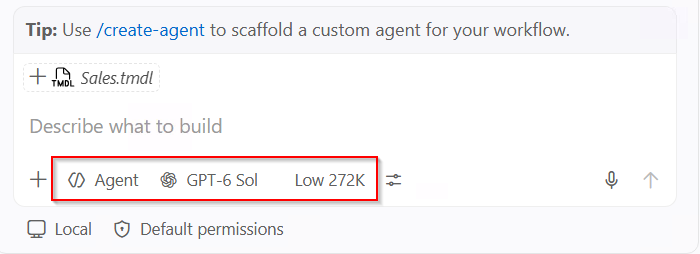
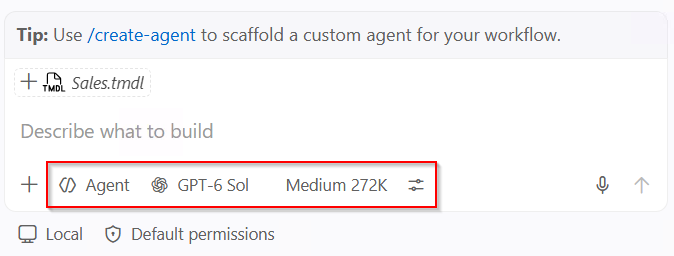
Update lab.md to adjust reasoning model settings and clarify thinking effort recommendations

diff --git a/lab2/lab.md b/lab2/lab.md
@@ -211,15 +211,15 @@ Writing documentation from scratch and keeping it current both take time. AI can
 #### Steps
 
 1. In **Visual Studio Code**, open **GitHub Copilot Chat** (`CTRL+ALT+I`).
-2. Set the chat mode to **Agent** and in the model picker, select the reasoning model `GPT-6 Sol` and thinking effort `Low`.	
+2. Set the chat mode to **Agent** and in the model picker, select the reasoning model `GPT-6 Sol` and thinking effort `Medium`.	
 
 	![vscode-copilot-chat](resources/img/vscode-copilot-chat-2.png)	
 
 > [!IMPORTANT]
 > **Choose the model and thinking effort based on the complexity of the task.**
 > Example using GPT-6 models:
-> * **Luna:** Fast and cost-efficient for simple, high-volume tasks, but less suitable for complex Power BI development and reasoning.
 > * **Sol:** Best suited for more complex tasks that require deeper reasoning, planning, or validation.
+> * **Luna:** Fast and cost-efficient for simple, high-volume tasks, but less suitable for complex Power BI development and reasoning.
 >
 > You can also adjust the **thinking effort** independently. Higher thinking effort can improve results on complex tasks, but can also increase cost.
 >
@@ -275,6 +275,9 @@ Writing documentation from scratch and keeping it current both take time. AI can
 
 1. Start a **new chat session** in GitHub Copilot Chat and choose `GPT-6 Luna` model and thinking effort `Medium`.
 
+> [!IMPORTANT]
+> Using a cheaper model like `GPT-6 Luna` to generate descriptions for existing Power BI measures is a good fit because the task is well-scoped and repeatable. 
+
 > [!TIP]
 > Start a new session when moving to a different task. A clean session prevents decisions, assumptions, and tool results from the previous task from influencing the next one. You can also reuse an existing sessions to keep the session context. For example, you could reuse the documentation session to update the docs after making changes to the semantic models or reports.
 
@@ -328,9 +331,6 @@ Writing documentation from scratch and keeping it current both take time. AI can
 
 1. Start a **new chat session** and pick `GPT-6 Sol` model and thinking effort `Medium`.
 
-> [!IMPORTANT]
-> Use the `GPT-6 Sol` model for this task because it requires more than a straightforward model edit like setting descriptions. The agent must inspect a new data source, infer its schema, design a calculation group, and write the required DAX expressions. These steps benefit from a model with stronger reasoning than `GPT-6 Luna`.
-
 2. Enter the following prompt:
 
 	```text
@@ -370,7 +370,7 @@ Writing documentation from scratch and keeping it current both take time. AI can
 
 2. Select **Save** in **Power BI Desktop** to ensure there are no pending changes. The agent will modify the PBIR files and reload the report automatically, but Power BI Desktop blocks the reload if it has unsaved changes.
    
-3. Start a **new chat session** and pick model `GPT-6 Sol` and thinking effort `Low`.
+3. Start a **new chat session** and pick model `GPT-6 Sol` and thinking effort `Medium`.
 
 4. Enter the following prompt to use AI to help you make changes to the report.
 

diff --git a/lab3/lab.md b/lab3/lab.md
@@ -137,7 +137,7 @@ All participants should use the workshop-provided **Contoso Sales** semantic mod
 
 4. Confirm the folder selection.
 5. In the chat pane, open the model selector.
-6. Set **Model** to **GPT-5.6 Sol**.
+6. Set **Model** to **GPT-6 Sol**.
 7. Set **Effort** to **Medium**.
 
 	![Configure the GitHub Copilot model and effort](resources/img/copilot-model-settings.png)
